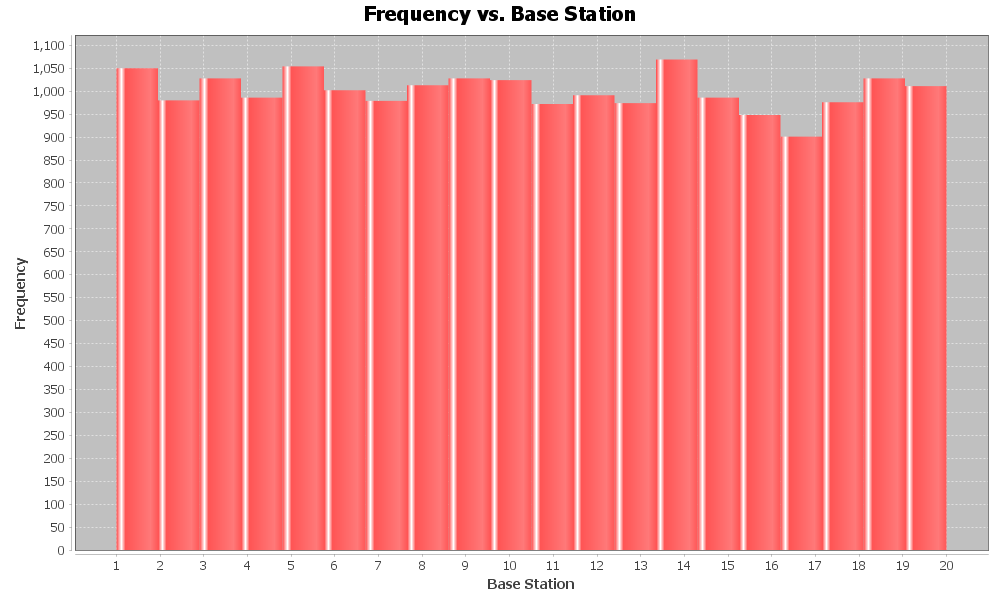
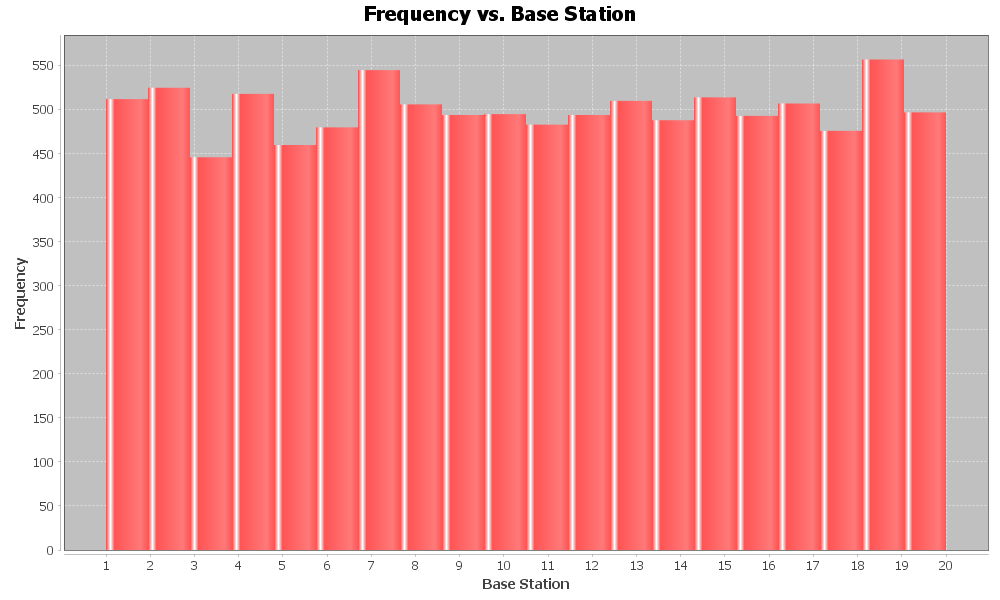
Removed some comments and added Mean generation module

diff --git a/src/main/java/main/Simulation.java b/src/main/java/main/Simulation.java
@@ -3,7 +3,6 @@ package main;
 import java.util.ArrayList;
 import java.util.List;
 import java.util.PriorityQueue;
-import java.util.Random;
 
 import org.apache.commons.math3.distribution.UniformRealDistribution;
 import org.jfree.data.xy.XYSeries;
@@ -32,17 +31,17 @@ public class Simulation {
 		List<Double> dropped = new ArrayList<Double>();
 		List<Double> blocked = new ArrayList<Double>();
 		List<Double> numChannelsFree = new ArrayList<Double>();
-		
-		for (int iterations = 0; iterations < 100; iterations++) {
+
+		for (int iterations = 0; iterations < 1000; iterations++) {
 
 			UniformRealDistribution distributions[] = new UniformRealDistribution[21];
-			
-			for(int range = 0;range<21;range++)
-				distributions[range] = new UniformRealDistribution(0,2.0);
-			
+
+			for (int range = 0; range < 21; range++)
+				distributions[range] = new UniformRealDistribution(0, 2.0);
+
 			for (int i = 0; i < 21; i++) {
-				channelsAvailable[i][0] = 9;
-				channelsAvailable[i][1] = 1;
+				channelsAvailable[i][0] = 10;
+				channelsAvailable[i][1] = 0;
 			}
 			int callDropped = 0;
 			int callCompleted = 0;
@@ -56,31 +55,28 @@ public class Simulation {
 
 			int numCalls = 0;
 			while (futureEventList.size() > 0) {
-				for(int i = 0;i<21;i++)
-					numChannelsAvailable+=channelsAvailable[i][0];
+				for (int i = 0; i < 21; i++)
+					numChannelsAvailable += channelsAvailable[i][0];
 
 				Event currentEvent = futureEventList.poll();
-				//System.out.println("Call Id: " + currentEvent.getCallData().getId() + " CallDuration: "
-				//		+ currentEvent.getCallData().getCallDuration() + " CallStation: "
-				//		+ currentEvent.getCallData().getStation());
 				if (currentEvent.getType() == EventType.CALL_START_EVENT) {
 					try {
-						dropped.set(numCalls, dropped.get(numCalls) - (double) callDropped);
-						blocked.set(numCalls, blocked.get(numCalls) + (double) callBlocked);
-						numChannelsFree.set(numCalls, numChannelsFree.get(numCalls)+(double) numChannelsAvailable);
+						if (iterations > 1500) {
+							dropped.set(numCalls, dropped.get(numCalls) + (double) callDropped);
+							blocked.set(numCalls, blocked.get(numCalls) + (double) callBlocked);
+						}
+						numChannelsFree.set(numCalls, numChannelsFree.get(numCalls) + (double) numChannelsAvailable);
 					} catch (java.lang.IndexOutOfBoundsException e) {
 						dropped.add(numCalls, (double) callDropped);
 						blocked.add(numCalls, (double) callBlocked);
-						numChannelsFree.add(numCalls,(double)numChannelsAvailable);
+						numChannelsFree.add(numCalls, (double) numChannelsAvailable);
 					}
 					numCalls++;
 					if (channelsAvailable[currentEvent.getCallData().getStation()][0] > 0) {
 						channelsAvailable[currentEvent.getCallData().getStation()][0]--;
-												
+
 						double position = distributions[currentEvent.getCallData().getStation()].sample();
 						double timeRemaining = ((2 - position) / currentEvent.getCallData().getVelocity()) * 3600;
-						//System.out.println("TimeRemaining: " + timeRemaining + " CallDuration: "
-						//		+ currentEvent.getCallData().getCallDuration());
 						if (timeRemaining >= currentEvent.getCallData().getCallDuration()) {
 							CallData data = currentEvent.getCallData();
 							Event nextEvent = new Event(
@@ -101,9 +97,7 @@ public class Simulation {
 							futureEventList.add(nextEvent);
 						}
 					} else {
-
 						callBlocked++;
-
 						continue;
 					}
 				} else if (currentEvent.getType() == EventType.CALL_HANDOVER_EVENT) {
@@ -116,8 +110,6 @@ public class Simulation {
 						channelsAvailable[currentEvent.getCallData().getStation()][0]--;
 						CallData data = currentEvent.getCallData();
 						double timeRemaining = (2 / data.getVelocity()) * 3600;
-						//System.out.println("TimeRemaining: " + timeRemaining + " CallDuration: "
-						//		+ currentEvent.getCallData().getCallDuration());
 						if (timeRemaining >= data.getCallDuration()) {
 							Event nextEvent = new Event(currentEvent.getTime() + data.getCallDuration(),
 									EventType.CALL_TERMINATION_EVENT, data);
@@ -158,10 +150,6 @@ public class Simulation {
 						}
 					} else {
 						callDropped++;
-						//System.out.println("Call Blocked: " + numCalls);
-						//for (int j = 0; j < 20; j++)
-						//	System.out.print(channelsAvailable[j][0] + " ");
-						//System.out.println();
 						continue;
 					}
 				} else if (currentEvent.getType() == EventType.CALL_TERMINATION_EVENT) {
@@ -173,27 +161,22 @@ public class Simulation {
 				}
 			}
 			System.out.println("Number of calls dropped: " + callDropped);
-			/*
-			 * System.out.println("Number of calls blocked: " + callBlocked);
-			 * System.out.println("Number of calls completed: " +
-			 * callCompleted); System.out.println("Call Blocked Percentage: " +
-			 * ((double) (callBlocked / 100.0))); System.out.println(
-			 * "Call Dropped Percentage: " + ((double) (callDropped / 100.0)));
-			 * System.out.println("Call Completed Percentage: " + ((double)
-			 * (callCompleted / 100.0))); System.out.println(
-			 * "Successful Handover Percentage: " + ((double) (callHandover /
-			 * 100.0)));
-			 */}
-
-		for (int i = 0; i < 9000; i++) {
-			//series1.add(i + 1, (dropped.get(i)*numChannelsFree.get(i) / (1 * (i + 1)*200*1000)));
-			series1.add(i+1,numChannelsFree.get(i)/(1000*(i+1)*180));
-			series2.add(i + 1, (blocked.get(i)*numChannelsFree.get(i) / (1 * (i + 1)*200*1000)));
 		}
-		System.out.println("Count Blocked: " + blocked.size());
-		System.out.println("Count Blocked: " + dropped.size());
+
+		double callDroppedSummation = 0;
+		double callBlockedSummation = 0;
+		for (int i = 0; i < 9000; i++) {
+			if (i > 1500) {
+				callDroppedSummation += dropped.get(i);
+				callBlockedSummation += blocked.get(i);
+			}
+			series1.add(i + 1, numChannelsFree.get(i) / (1000 * (i + 1) * 180));
+			series2.add(i + 1, (blocked.get(i) * numChannelsFree.get(i) / (1 * (i + 1) * 200 * 1000)));
+		}
+		System.out.println("Call Blocked: " + ((double) callBlockedSummation / (8500 * 1000)));
+		System.out.println("Call Dropped: " + ((double) callDroppedSummation / (8500 * 1000)));
 		dataset.addSeries(series1);
-		//dataset.addSeries(series2);
+		// dataset.addSeries(series2);
 		System.out.println(series1.getItemCount());
 		System.out.println(series2.getItemCount());
 		GenerateGraphs xyPlot = new GenerateGraphs();

diff --git a/src/main/java/main/AnalyzeInput.java b/src/main/java/main/AnalyzeInput.java
@@ -19,6 +19,10 @@ public class AnalyzeInput {
 		generateCallDurationHistogram(listCallData);
 		generateInterArrivalTimeHistogram(listCallData);
 		generateVelocityHistogram(listCallData);
+		printVelocityMean(listCallData);
+		printBaseStationMean(listCallData);
+		printCallDurationMean(listCallData);
+		printInterArrivalMean(listCallData);
 	}
 
 	/**
@@ -90,4 +94,63 @@ public class AnalyzeInput {
 		generator.generateHistogram(values, 40, directory + "Velocity.png", "Frequency vs. Velocity", "Velocity",
 				"Frequency");
 	}
+
+	/**
+	 * 
+	 * @param callData
+	 */
+	public static void printVelocityMean(List<CallData> callData) {
+		if (callData == null || callData.size() == 0)
+			return;
+		double sumVelocity = 0;
+		for (CallData data : callData) {
+			sumVelocity += data.getVelocity();
+		}
+		System.out.println("Velocity Mean: " + ((double) sumVelocity / callData.size()));
+	}
+
+	/**
+	 * 
+	 * @param callData
+	 */
+	public static void printInterArrivalMean(List<CallData> callData) {
+		if (callData == null || callData.size() == 0)
+			return;
+		double sumArrival = 0;
+		double prevArrival = 0;
+		for (CallData data : callData) {
+			sumArrival += data.getTime() - prevArrival;
+			prevArrival = data.getTime();
+		}
+		System.out.println("Inter-Arrival Mean: " + ((double) sumArrival / callData.size()));
+	}
+
+	/**
+	 * 
+	 * @param callData
+	 */
+	public static void printCallDurationMean(List<CallData> callData) {
+		if (callData == null || callData.size() == 0)
+			return;
+		double callDuration = 0;
+		for (CallData data : callData) {
+			callDuration += data.getCallDuration();
+		}
+		System.out.println("Call Duration Mean: " + ((double) callDuration / callData.size()));
+	}
+
+	/**
+	 * 
+	 * @param callData
+	 */
+	public static void printBaseStationMean(List<CallData> callData) {
+		if (callData == null || callData.size() == 0)
+			return;
+		double baseStation = 0;
+		for (CallData data : callData) {
+			baseStation += data.getStation();
+		}
+		System.out.println("Base Station Mean: " + ((double) baseStation / callData.size()));
+	}
+
 }

diff --git a/src/main/java/main/StochasticData.java b/src/main/java/main/StochasticData.java
@@ -21,13 +21,17 @@ public class StochasticData {
 			double callTime =  previousCall + Math.abs(exponentialStochasticData(1.3698));
 			previousCall = callTime;
 			CallData data = new CallData(i + 1, callTime,
-					uniformStochasticData(1, 20), exponentialStochasticData(99.8359), normalStochasticData(1, 100));
+					uniformStochasticData(1, 20), exponentialStochasticData(99.8359), normalStochasticData(120.0721, 9.0191));
 			listCallData.add(data);
 		}
 		AnalyzeInput.generateVelocityHistogram(listCallData);
 		AnalyzeInput.generateCallDurationHistogram(listCallData);
 		AnalyzeInput.generateInterArrivalTimeHistogram(listCallData);
 		AnalyzeInput.generateBaseStationHistogram(listCallData);
+		AnalyzeInput.printVelocityMean(listCallData);
+		AnalyzeInput.printBaseStationMean(listCallData);
+		AnalyzeInput.printCallDurationMean(listCallData);
+		AnalyzeInput.printInterArrivalMean(listCallData);
 	}
 
 	/**
